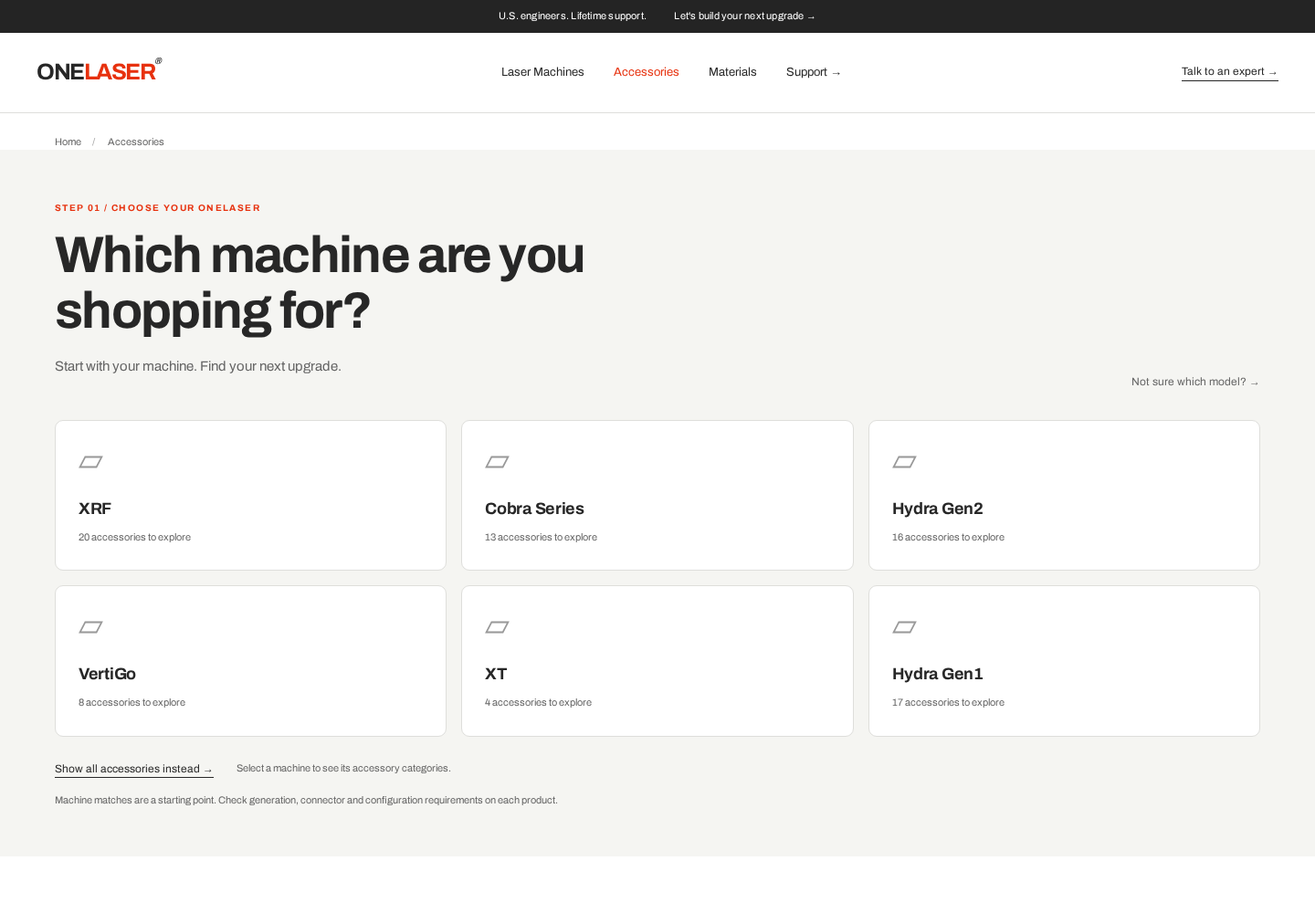
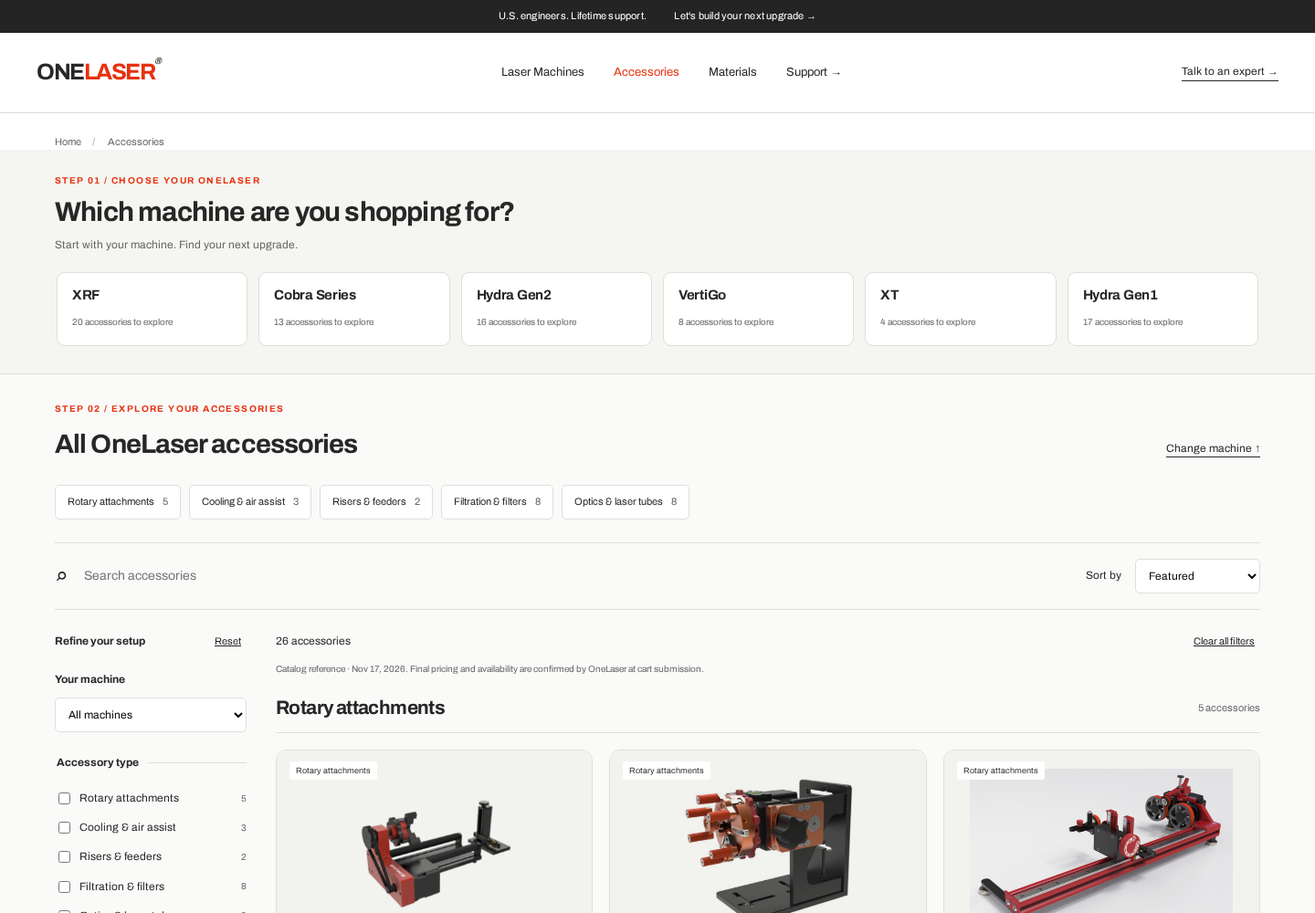
Compact machine picker into one scrollable row and show all accessories by default

diff --git a/accessories.html b/accessories.html
@@ -2,8 +2,8 @@
 <a class="skip" href="#machine-picker">Skip to machine selection</a><div class="announcement">U.S. engineers. Lifetime support. <a href="https://www.1laser.com/pages/contact-us">Let's build your next upgrade →</a></div>
 <header class="header"><a class="logo" href="https://www.1laser.com" aria-label="OneLaser home">ONE<span>LASER</span><i>®</i></a><nav aria-label="Main navigation"><a href="https://www.1laser.com/collections/laser-engraving-cutting-marking-machines">Laser Machines</a><a class="active" href="accessories.html" aria-current="page">Accessories</a><a href="https://www.1laser.com/collections/materials-for-laser-engraving-cutting">Materials</a><a href="https://wiki.1laser.com">Support →</a></nav><a class="header-help" href="https://www.1laser.com/pages/contact-us">Talk to an expert →</a></header>
 <main><div class="wrap breadcrumb"><a href="https://www.1laser.com">Home</a><span>/</span> Accessories</div>
-<section class="machine-section" id="machine-picker"><div class="wrap"><div class="section-head"><div><p class="eyebrow">STEP 01 / CHOOSE YOUR ONELASER</p><h1>Which machine are you<br>shopping for?</h1><p class="picker-intro">Start with your machine. Find your next upgrade.</p></div><a href="https://www.1laser.com/pages/contact-us">Not sure which model? →</a></div><div id="machines" class="machines" role="group" aria-label="Choose your machine"></div><div class="picker-actions"><button class="text-link" id="browse-all">Show all accessories instead →</button><span>Select a machine to see its accessory categories.</span></div><p class="fine">Machine matches are a starting point. Check generation, connector and configuration requirements on each product.</p></div></section>
-<div class="wrap choose-prompt" id="choose-prompt"><span>↓</span><p>Your accessories start here.</p><small>Choose your machine above to explore its setup.</small></div><section class="catalog-section" id="catalog" hidden><div class="wrap"><div class="section-head"><div><p class="eyebrow">STEP 02 / EXPLORE YOUR ACCESSORIES</p><h2 id="catalog-title">Accessories for your machine</h2></div><button id="change-machine" class="text-link">Change machine ↑</button></div><nav id="category-nav" class="category-nav" aria-label="Accessory categories"></nav><div class="toolbar"><label class="search"><span aria-hidden="true">⌕</span><input id="search" type="search" placeholder="Search accessories" aria-label="Search accessories"></label><button class="mobile-filter" id="filter-toggle" aria-expanded="false" aria-controls="filters">Filters +</button><label class="sort">Sort by <select id="sort"><option value="featured">Featured</option><option value="price-asc">Price: low to high</option><option value="price-desc">Price: high to low</option><option value="name">Name: A–Z</option></select></label></div><div class="catalog-layout"><aside id="filters"><div class="filter-heading"><strong>Refine your setup</strong><button data-reset>Reset</button></div><label class="filter-label" for="machine-select">Your machine</label><select id="machine-select"><option value="">All machines</option></select><fieldset><legend>Accessory type</legend><div id="categories"></div></fieldset><fieldset><legend>Price (USD)</legend><label for="max-price">Maximum price</label><input id="max-price" type="number" min="0" step="1" placeholder="No limit"><p class="fine" id="price-error" role="status"></p></fieldset><div class="help-card"><span>LET’S GET IT RIGHT</span><h3>Need a second opinion?</h3><p>Our team can help confirm the right part for your setup.</p><a href="https://www.1laser.com/pages/contact-us">Ask a OneLaser expert →</a></div></aside><div><div class="results-line"><p id="count" role="status" aria-live="polite"></p><button data-reset>Clear all filters</button></div><div id="chips" class="chips"></div><p class="snapshot-note">Catalog reference · Nov 17, 2026. Final pricing and availability are confirmed by OneLaser at cart submission.</p><div id="products" class="product-grid"></div><div id="empty" hidden><h3>No accessories match this setup.</h3><p>Try another category or remove a filter.</p><button class="button primary" data-reset>Reset filters</button></div><noscript><p>Enable JavaScript to filter this collection, or <a href="https://www.1laser.com/collections/laser-accessories">browse all accessories on OneLaser</a>.</p></noscript></div></div></div></section>
+<section class="machine-section" id="machine-picker"><div class="wrap"><div class="section-head"><div><p class="eyebrow">STEP 01 / CHOOSE YOUR ONELASER</p><h1>Which machine are you shopping for?</h1><p class="picker-intro">Start with your machine. Find your next upgrade.</p></div></div><div id="machines" class="machines" role="group" aria-label="Choose your machine"></div></div></section>
+<section class="catalog-section" id="catalog"><div class="wrap"><div class="section-head"><div><p class="eyebrow">STEP 02 / EXPLORE YOUR ACCESSORIES</p><h2 id="catalog-title">Accessories for your machine</h2></div><button id="change-machine" class="text-link">Change machine ↑</button></div><nav id="category-nav" class="category-nav" aria-label="Accessory categories"></nav><div class="toolbar"><label class="search"><span aria-hidden="true">⌕</span><input id="search" type="search" placeholder="Search accessories" aria-label="Search accessories"></label><button class="mobile-filter" id="filter-toggle" aria-expanded="false" aria-controls="filters">Filters +</button><label class="sort">Sort by <select id="sort"><option value="featured">Featured</option><option value="price-asc">Price: low to high</option><option value="price-desc">Price: high to low</option><option value="name">Name: A–Z</option></select></label></div><div class="catalog-layout"><aside id="filters"><div class="filter-heading"><strong>Refine your setup</strong><button data-reset>Reset</button></div><label class="filter-label" for="machine-select">Your machine</label><select id="machine-select"><option value="">All machines</option></select><fieldset><legend>Accessory type</legend><div id="categories"></div></fieldset><fieldset><legend>Price (USD)</legend><label for="max-price">Maximum price</label><input id="max-price" type="number" min="0" step="1" placeholder="No limit"><p class="fine" id="price-error" role="status"></p></fieldset><div class="help-card"><span>LET’S GET IT RIGHT</span><h3>Need a second opinion?</h3><p>Our team can help confirm the right part for your setup.</p><a href="https://www.1laser.com/pages/contact-us">Ask a OneLaser expert →</a></div></aside><div><div class="results-line"><p id="count" role="status" aria-live="polite"></p><button data-reset>Clear all filters</button></div><div id="chips" class="chips"></div><p class="snapshot-note">Catalog reference · Nov 17, 2026. Final pricing and availability are confirmed by OneLaser at cart submission.</p><div id="products" class="product-grid"></div><div id="empty" hidden><h3>No accessories match this setup.</h3><p>Try another category or remove a filter.</p><button class="button primary" data-reset>Reset filters</button></div><noscript><p>Enable JavaScript to filter this collection, or <a href="https://www.1laser.com/collections/laser-accessories">browse all accessories on OneLaser</a>.</p></noscript></div></div></div></section>
 <section class="wrap guidance"><div><p class="eyebrow">A LITTLE GUIDANCE GOES A LONG WAY</p><h2>Right accessory.<br>Ready for your next project.</h2><p>Check these details before you order.</p><a class="text-link" href="https://wiki.1laser.com">Explore the knowledge base →</a></div><div class="faqs"><details><summary>How do I check compatibility?</summary><p>Start with your machine family, then confirm the exact model, generation, laser source and connector on the product page. For a replacement part, have your serial number ready when contacting support.</p></details><details><summary>Does every laser need a water chiller?</summary><p>Cooling requirements depend on the laser source and configuration. Glass-tube CO₂ systems and RF systems have different needs. Check your machine documentation before selecting a chiller.</p></details><details><summary>What do I need for the XRF conveyor feeder?</summary><p>The collection lists the Base Boost riser base as a requirement. Check the feeder product page for the complete setup and current compatibility.</p></details><details><summary>Which replacement filter should I buy?</summary><p>Match the exact FiltraBox unit, generation and filter stage. A machine-family match alone does not identify the correct replacement filter.</p></details></div></section>
 <section class="expert"><div class="wrap"><div><p class="eyebrow">ENGINEERS ON YOUR SIDE</p><h2>Let’s complete your setup.</h2><p>Tell us your machine and what you want to make.</p></div><a class="button" href="https://www.1laser.com/pages/contact-us">Talk to an expert →</a></div></section></main><footer class="wrap"><a class="logo" href="https://www.1laser.com">ONE<span>LASER</span></a><p>U.S. engineers. Lifetime support.</p><a href="https://www.1laser.com/policies/privacy-policy">Privacy policy</a><small>© 2026 OneLaser</small></footer>
 <div class="compare-tray" id="compare-tray" hidden><span id="compare-count" role="status"></span><button id="open-compare" class="button primary">Compare accessories →</button><button id="clear-compare">Clear</button></div><dialog id="compare-dialog" aria-labelledby="compare-title"><div class="dialog-head"><h2 id="compare-title">Find your next upgrade</h2><button id="close-compare" aria-label="Close comparison">✕</button></div><div class="table-scroll"><table id="compare-table"></table></div><p class="fine">Comparison is a guide. Confirm exact configuration and current pricing on the product page.</p></dialog><dialog id="variant-dialog" aria-labelledby="variant-title"><div class="dialog-head"><h2 id="variant-title">Choose your configuration</h2><button type="button" id="close-variant" aria-label="Close configuration">✕</button></div><h3 id="variant-product"></h3><p id="variant-note" class="fine"></p><form id="variant-form" method="post" action="https://www.1laser.com/cart/add"><label for="variant-select">Configuration</label><select id="variant-select" name="id" required><option value="">Select a configuration</option></select><label for="cart-quantity">Quantity</label><input id="cart-quantity" name="quantity" type="number" min="1" max="99" value="1" required><input name="return_to" type="hidden" value="/cart"><p id="variant-price" role="status"></p><p class="fine">Confirm your machine, connector and required accessories before adding. You’ll continue to your OneLaser cart.</p><button class="button primary" type="submit">Add to cart →</button><a id="variant-learn" class="text-link">Learn More</a></form></dialog></body></html>

diff --git a/assets/accessories.js b/assets/accessories.js
@@ -7,13 +7,12 @@ const $=s=>document.querySelector(s);
 const escape=s=>String(s).replace(/[&<>"']/g,c=>({'&':'&amp;','<':'&lt;','>':'&gt;','"':'&quot;',"'":'&#39;'}[c]));
 const money=n=>new Intl.NumberFormat('en-US',{style:'currency',currency:'USD'}).format(n);
 const selected=new Set();
-let hasChosen=false;
 let state={machine:'',categories:[],q:'',sort:'featured',max:''};
-function read(){const p=new URLSearchParams(location.search);hasChosen=p.has('machine')||p.get('all')==='1';state={machine:models.includes(p.get('machine'))?p.get('machine'):'',categories:p.getAll('category').filter(c=>types.includes(c)),q:p.get('q')||'',sort:['price-asc','price-desc','name'].includes(p.get('sort'))?p.get('sort'):'featured',max:p.has('max')&&Number.isFinite(Number(p.get('max')))&&Number(p.get('max'))>=0?p.get('max'):''};}
-function sync(){const p=new URLSearchParams();if(state.machine)p.set('machine',state.machine);else if(hasChosen)p.set('all','1');state.categories.forEach(c=>p.append('category',c));if(state.q)p.set('q',state.q);if(state.sort!=='featured')p.set('sort',state.sort);if(state.max!=='')p.set('max',state.max);history.replaceState(null,'',location.pathname+(p.size?'?'+p:'')+location.hash);}
+function read(){const p=new URLSearchParams(location.search);state={machine:models.includes(p.get('machine'))?p.get('machine'):'',categories:p.getAll('category').filter(c=>types.includes(c)),q:p.get('q')||'',sort:['price-asc','price-desc','name'].includes(p.get('sort'))?p.get('sort'):'featured',max:p.has('max')&&Number.isFinite(Number(p.get('max')))&&Number(p.get('max'))>=0?p.get('max'):''};}
+function sync(){const p=new URLSearchParams();if(state.machine)p.set('machine',state.machine);state.categories.forEach(c=>p.append('category',c));if(state.q)p.set('q',state.q);if(state.sort!=='featured')p.set('sort',state.sort);if(state.max!=='')p.set('max',state.max);history.replaceState(null,'',location.pathname+(p.size?'?'+p:'')+location.hash);}
 function filtered(ignoreCategory=false){return products.filter(p=>(!state.machine||p.machines.includes(state.machine))&&(ignoreCategory||!state.categories.length||state.categories.includes(p.category))&&(!state.q||[p.title,p.description,p.note,p.category,...p.machines].join(' ').toLowerCase().includes(state.q.toLowerCase()))&&(state.max===''||p.price<=Number(state.max)));}
 function render(){
- $('#catalog').hidden=!hasChosen;$('#choose-prompt').hidden=hasChosen;$('#catalog-title').textContent=state.machine?'Accessories for '+state.machine:'All OneLaser accessories';
+ $('#catalog-title').textContent=state.machine?'Accessories for '+state.machine:'All OneLaser accessories';
  $('#search').value=state.q;$('#sort').value=state.sort;$('#machine-select').value=state.machine;$('#max-price').value=state.max;
  $('#machines').innerHTML=models.map(m=>`<button class="machine" data-machine="${escape(m)}" aria-pressed="${state.machine===m}"><strong>${escape(m||'All machines')}</strong><small>${products.filter(p=>!m||p.machines.includes(m)).length} accessories to explore</small></button>`).join('');
  $('#categories').innerHTML=types.map(c=>`<label><input type="checkbox" value="${escape(c)}" ${state.categories.includes(c)?'checked':''}>${escape(c)}<small>${filtered(true).filter(p=>p.category===c).length}</small></label>`).join('');
@@ -39,14 +38,13 @@ read();$('#machine-select').insertAdjacentHTML('beforeend',models.map(m=>`<optio
 render();
 document.addEventListener('click',e=>{
  const config=e.target.closest('[data-configure]');if(config){const p=products[Number(config.dataset.configure)];$('#variant-product').textContent=p.title;$('#variant-note').textContent=p.note;$('#variant-learn').href=p.url;$('#variant-select').innerHTML='<option value="">Select a configuration</option>'+p.variants.map(v=>`<option value="${escape(v.id)}" data-price="${v.price}" ${v.available?'':'disabled'}>${escape(v.title)} — ${money(v.price)}${v.available?'':' — Unavailable'}</option>`).join('');$('#variant-price').textContent='';$('#cart-quantity').value='1';$('#variant-form button[type=submit]').disabled=false;$('#variant-dialog').showModal();}
-const m=e.target.closest('[data-machine]');if(m){state.machine=m.dataset.machine;state.categories=[];state.q='';state.max='';hasChosen=true;update();$('#catalog').scrollIntoView({behavior:matchMedia('(prefers-reduced-motion: reduce)').matches?'instant':'smooth'});}const g=e.target.closest('[data-goal]');if(g){e.preventDefault();state.categories=[g.dataset.goal];update();$('#catalog').scrollIntoView({behavior:matchMedia('(prefers-reduced-motion: reduce)').matches?'instant':'smooth'});}if(e.target.closest('[data-reset]'))reset();const chip=e.target.closest('[data-remove]');if(chip){if(chip.dataset.remove==='category')state.categories=state.categories.filter(c=>c!==chip.dataset.value);else state[chip.dataset.remove]='';hasChosen=true;update();}});
-$('#search').addEventListener('input',e=>{state.q=e.target.value;update();});$('#machine-select').addEventListener('change',e=>{state.machine=e.target.value;hasChosen=true;update();});$('#sort').addEventListener('change',e=>{state.sort=e.target.value;update();});$('#categories').addEventListener('change',()=>{state.categories=[...document.querySelectorAll('#categories input:checked')].map(e=>e.value);update();});
+const m=e.target.closest('[data-machine]');if(m){state.machine=m.dataset.machine;state.categories=[];state.q='';state.max='';update();$('#catalog').scrollIntoView({behavior:matchMedia('(prefers-reduced-motion: reduce)').matches?'instant':'smooth'});}const g=e.target.closest('[data-goal]');if(g){e.preventDefault();state.categories=[g.dataset.goal];update();$('#catalog').scrollIntoView({behavior:matchMedia('(prefers-reduced-motion: reduce)').matches?'instant':'smooth'});}if(e.target.closest('[data-reset]'))reset();const chip=e.target.closest('[data-remove]');if(chip){if(chip.dataset.remove==='category')state.categories=state.categories.filter(c=>c!==chip.dataset.value);else state[chip.dataset.remove]='';update();}});
+$('#search').addEventListener('input',e=>{state.q=e.target.value;update();});$('#machine-select').addEventListener('change',e=>{state.machine=e.target.value;update();});$('#sort').addEventListener('change',e=>{state.sort=e.target.value;update();});$('#categories').addEventListener('change',()=>{state.categories=[...document.querySelectorAll('#categories input:checked')].map(e=>e.value);update();});
 $('#max-price').addEventListener('input',e=>{if(e.target.validity.badInput||Number(e.target.value)<0){$('#price-error').textContent='Enter a price of 0 or more.';return;}$('#price-error').textContent='';state.max=e.target.value;update();});
 $('#products').addEventListener('change',e=>{if(!e.target.matches('[data-compare]'))return;const i=Number(e.target.dataset.compare);if(e.target.checked&&selected.size<3)selected.add(i);else selected.delete(i);render();});
 $('#clear-compare').addEventListener('click',()=>{selected.clear();render();});
 $('#filter-toggle').addEventListener('click',()=>{const open=$('#filters').classList.toggle('open');$('#filter-toggle').setAttribute('aria-expanded',String(open));$('#filter-toggle').textContent=open?'Close filters −':'Filters +';});
 $('#open-compare').addEventListener('click',()=>{const ps=[...selected].map(i=>products[i]);const rows=[['Purpose',p=>escape(p.category)],['Price (USD)',p=>money(p.price)],['Machine family candidates',p=>escape(p.machines.join(', ')||'Confirm with OneLaser')],['What it does',p=>escape(p.description)],['Before you order',p=>escape(p.note)],['Next step',p=>`<a class="text-link" href="${escape(p.url)}">Check product details →</a>`]];$('#compare-table').innerHTML=`<caption class="fine">Compare ${ps.length} selected accessories</caption><thead><tr><th scope="col">Accessory</th>${ps.map(p=>`<th scope="col"><img src="${escape(p.image)}" alt="" width="110" height="90"><br>${escape(p.title)}</th>`).join('')}</tr></thead><tbody>${rows.map(([title,fn])=>`<tr><th scope="row">${title}</th>${ps.map(p=>`<td>${fn(p)}</td>`).join('')}</tr>`).join('')}</tbody>`;$('#compare-dialog').showModal();});
-$('#browse-all').addEventListener('click',()=>{hasChosen=true;state.machine='';state.categories=[];update();$('#catalog').scrollIntoView();});
 $('#change-machine').addEventListener('click',()=>{$('#machine-picker').scrollIntoView();$('#machines button').focus({preventScroll:true});});
 $('#close-variant').addEventListener('click',()=>$('#variant-dialog').close());
 $('#variant-select').addEventListener('change',()=>{const o=$('#variant-select').selectedOptions[0];$('#variant-price').textContent=o.value?money(Number(o.dataset.price))+' USD':'';});

diff --git a/assets/accessories.css b/assets/accessories.css
@@ -3,3 +3,7 @@
 .expert .button{color:var(--ink)}
 .machine-section{padding:56px 0 42px;background:#f5f5f2}.machine-section h1{font-size:clamp(36px,4vw,56px);letter-spacing:-1.7px;margin:0;line-height:1.08}.picker-intro{font-size:15px;color:var(--muted);margin-top:18px}.machines{grid-template-columns:repeat(3,1fr);gap:16px;margin-top:32px}.machine{min-height:140px;padding:25px;background:white;transition:border-color .15s,box-shadow .15s}.machine::before{font-size:35px;margin-bottom:22px}.machine strong{font-size:18px;margin-bottom:5px;letter-spacing:-.3px}.machine small{font-size:11px}.machine:hover{border-color:var(--accent)}.picker-actions{display:flex;align-items:center;gap:25px;margin-top:26px}.picker-actions button{border:0;background:transparent;margin:0;padding:0;font-size:12px}.picker-actions span{font-size:11px;color:var(--muted)}.choose-prompt{padding:50px 0;text-align:center}.choose-prompt>span{display:block;font-size:25px;color:var(--accent)}.choose-prompt p{font-size:19px;font-weight:700;margin:5px 0}.choose-prompt small{color:var(--muted)}.category-nav{display:flex;flex-wrap:wrap;gap:9px;margin:8px 0 25px}.category-nav a{padding:9px 13px;border:1px solid var(--line);background:white;border-radius:5px;font-size:11px}.category-nav a:hover{border-color:var(--accent);color:var(--accent)}.category-nav span{color:var(--muted);margin-left:7px}#products{display:block}.category-group{margin-bottom:35px;scroll-margin-top:25px}.category-heading{display:flex;justify-content:space-between;align-items:center;border-bottom:1px solid var(--line);margin-bottom:18px;padding-bottom:12px;gap:10px}.category-heading h3{font-size:21px;margin:0;letter-spacing:-.6px}.category-heading>span{font-size:11px;color:var(--muted)}.quick-cart{margin:14px 0 0}.quick-cart .button,.configure-cart{width:100%;display:flex;justify-content:center;padding:11px 8px}.configure-cart{margin-top:14px}.options-note{font-size:9px;text-align:center;color:var(--muted);margin-top:5px}.button:disabled{opacity:.55}.product-bottom{align-items:flex-start}.product-bottom a{border:0;text-decoration:underline;padding:3px 0;font-size:11px}.product-bottom .price{font-size:16px}.product-bottom .price small{font-size:9px}.compare-check{margin-top:12px}#variant-dialog{max-width:560px}#variant-form>label{display:block;font-size:12px;font-weight:700;margin:18px 0 7px}#variant-select{width:100%}#cart-quantity{width:95px;padding:10px;border:1px solid var(--line);border-radius:4px}#variant-price{font-weight:700;font-size:20px}#variant-form .button{min-width:160px}#variant-note{border-left:3px solid var(--accent);padding-left:12px}.catalog-layout>div{min-width:0}.category-group .product-grid{align-items:stretch}@media(max-width:650px){.machine-section{padding:32px 0}.machine-section h1{font-size:37px}.machines{grid-template-columns:repeat(2,1fr);gap:10px;margin-top:25px}.machine{padding:18px;min-height:132px}.machine:first-child{grid-column:auto;display:block;min-height:132px}.machine:first-child::before{margin-bottom:22px}.machine strong{font-size:16px}.machine small{font-size:10px}.picker-actions{display:block}.picker-actions span{display:block;margin-top:14px}.category-nav{display:flex;flex-wrap:nowrap;overflow-x:auto;padding:4px 1px 10px}.category-nav a{white-space:nowrap}.category-heading h3{font-size:18px}.product-bottom{display:block}.product-bottom a{display:inline-block;margin:7px 0 0}.product-body .price{font-size:15px}.category-heading>span{font-size:10px}.product-image img{height:160px}}
 #change-machine{border:0;background:none;padding:4px 0;cursor:pointer}.options-note{min-height:14px}.quick-cart{margin-bottom:19px}
+
+.machine-section{padding:26px 0 24px}.machine-section .section-head{margin-bottom:18px}.machine-section h1{font-size:30px;letter-spacing:-.8px;line-height:1.2}.machine-section .eyebrow{margin-bottom:8px}.picker-intro{font-size:12px;margin:9px 0 0}.machines{display:flex;flex-wrap:nowrap;gap:12px;margin-top:0;overflow-x:auto;padding:2px 2px 6px}.machine,.machine:first-child{flex:1 0 0;min-width:145px;min-height:76px;padding:15px 16px;display:block}.machine::before,.machine:first-child::before{display:none}.machine strong{font-size:15px;line-height:1.3;margin-bottom:7px}.machine small{font-size:10px;white-space:nowrap}.machine[aria-pressed=true]::after{font-size:11px;right:8px;top:5px}.catalog-section{padding-top:30px}@media(max-width:650px){.machine-section{padding:22px 0 18px}.machine-section h1{font-size:27px}.machine-section .section-head{margin-bottom:16px}.machines{gap:9px}.machine,.machine:first-child{flex:0 0 155px;min-height:74px;padding:14px}.machine strong{font-size:14px}.machine small{font-size:10px}.catalog-section{padding-top:26px}}
+
+.machines{overscroll-behavior-x:contain;scroll-snap-type:x proximity;-webkit-overflow-scrolling:touch;scrollbar-width:thin;scrollbar-color:#bcbcb6 transparent}.machine{scroll-snap-align:start}

diff --git a/docs/accessories-design-requirements.zh-CN.md b/docs/accessories-design-requirements.zh-CN.md
@@ -35,10 +35,10 @@
 | 模块 | 内容与交互 | 验收要点 |
 | --- | --- | --- |
 | 导航与面包屑 | 白底品牌导航与官网入口 | 不在选机前放营销首屏 |
-| 首个模块：机型选择 | 六个机型按钮：XRF / Cobra / Hydra Gen2 / VertiGo / XT / Hydra Gen1 | 默认不展示目录；选择后展开相应商品；可明确点击查看全部 |
+| 首个模块：机型选择 | 六个机型按钮：XRF / Cobra / Hydra Gen2 / VertiGo / XT / Hydra Gen1 | 默认立即展示全目录和筛选栏；选择后仅显示相应商品；通过机型下拉的 All machines 恢复全目录 |
 | 分类导航与目录 | 五类配件按独立标题分组，每组显示数量；上方分类锚点导航 | 仅出现当前机器有候选产品的类别；重新选机刷新各组 |
 | 搜索与筛选 | 搜索、价格、类别、机型和排序 | 各维度 AND，类别内部 OR；排序在每组内部生效；无结果可重置当前机型的其他条件 |
-| 选择状态 | 显示当前机型、数量、筛选标签、Change machine | URL 可恢复机型；“查看全部”通过 all=1 恢复；改机型清除旧搜索/类别/价格 |
+| 选择状态 | 显示当前机型、数量、筛选标签、Change machine | URL 可恢复机型；未选机型默认全目录；改机型清除旧搜索/类别/价格 |
 | 商品卡 | 图片、用途、名称、用途说明、适配条件、价格、Add to cart、Learn More | 两个独立入口；Learn More 到官网详情；库存不可用时加购按钮禁用 |
 | 单变体快速加购 | 标准 POST 表单提交真实 variant ID 和 quantity=1 到 OneLaser /cart/add | return_to=/cart；提交后跳转官网购物车，由 Shopify 校验价格与库存；防重复点击 |
 | 多变体快速加购 | Add to cart 打开原生 dialog，显式选择规格与数量，再提交 | 不默认勾选规格；未选不能提交；不可用变体禁选；显示该规格快照价格与适配说明 |
@@ -80,10 +80,12 @@
 
 ## 9. 本次验证结果
 
-2026-11-17 使用 Chromium/Playwright 验证：默认首模块为选机且目录隐藏；选择 XRF 后只出现对应候选产品；分类标题与结果匹配；Learn More 详情链接存在；URL 刷新恢复；空结果重置保留机型；单变体表单提交真实 ID、quantity=1、return_to=/cart；多变体默认空值、必选校验、选择 ID 与数量传递；弹窗 Esc 关闭；查看全部与刷新恢复；重新选择 Hydra Gen1 后更新商品；375/390/768/1440 宽度无横向溢出；手机筛选面板与规格弹窗布局。
+2026-11-17 使用 Chromium/Playwright 验证：默认首模块为紧凑单行选机，下方立即显示全目录和筛选栏；选择 XRF 后只出现对应候选产品；分类标题与结果匹配；Learn More 详情链接存在；URL 刷新恢复；空结果重置保留机型；单变体表单提交真实 ID、quantity=1、return_to=/cart；多变体默认空值、必选校验、选择 ID 与数量传递；弹窗 Esc 关闭；All machines 与刷新恢复；重新选择 Hydra Gen1 后更新商品；375/390/768/1440 宽度无横向溢出；手机筛选面板与规格弹窗布局。
 
 表单提交在测试浏览器拦截并检查内容，没有向真实购物车写入，也没有下单。未对官网跨站表单的实际响应、实时售罄错误或支付做端到端验证，不声称完成真实交易验证。preview/ 中保存新版桌面首屏、商品目录与手机截图。
 
 本地查看：在仓库根目录执行 `python -m http.server 8766`，访问 `http://localhost:8766/accessories.html`。
 
 交互回归脚本：`tests/accessories.cjs`。在已安装 Playwright/Chromium 的环境启动上述本地服务器后，执行 `node tests/accessories.cjs`；可通过 `ACCESSORIES_BASE_URL` 指定其他本地测试地址。脚本拦截加购表单，并生成 preview/ 截图，不执行真实加购。
+
+布局补充：移除选机模块右上咨询链接、底部查看全部及两段提示；六个机型保持同一行，桌面等分、手机横向滚动，卡片高度小于 100px，减少首屏占用。产品卡片仍按类别展示，保留 Add to cart 与 Learn More。
